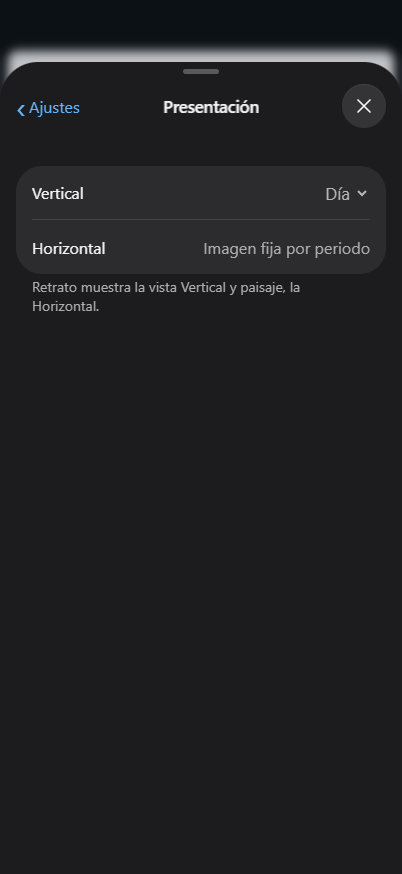
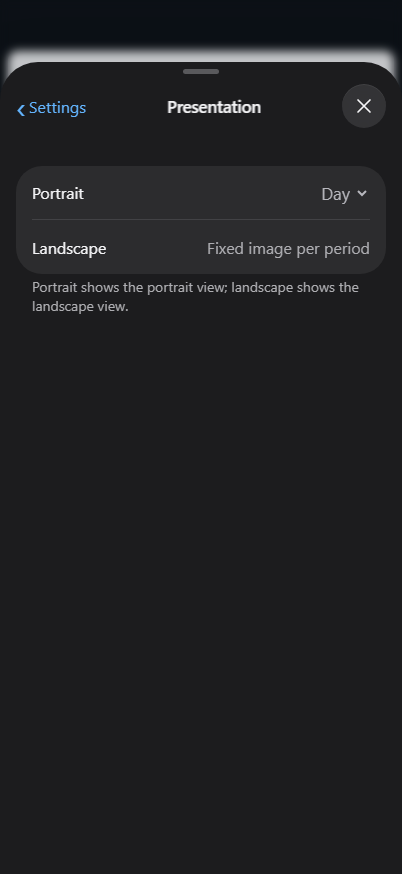
docs: refresh English interface screenshots

diff --git a/README.md b/README.md
@@ -20,7 +20,7 @@ Schedule Viewer turns your own images into a date-aware display. Define named pe
 - **Predictable presentation.** Portrait can vary by weekday, real week or calendar month. Landscape uses one stable image for each period.
 - **Useful exceptions.** A weekly active pattern combines with exact active/inactive dates and named inactive intervals such as holidays, closures or breaks.
 - **Private by design.** Configuration and original image bytes stay in IndexedDB on the device. There is no account, backend, telemetry or analytics.
-- **Offline and installable.** The app shell and saved content work offline and can be added to an iPhone or iPad Home Screen.
+- **Offline and installable.** The app shell and saved content work offline and can be installed on iOS, iPadOS and Android.
 - **Portable.** A `.schedule` backup moves the configuration and its images together; YAML import/export handles the configuration alone.
 - **Lossless image storage.** PNG, JPEG, WebP, AVIF and animated GIF retain their original bytes. User-provided SVG is deliberately rejected.
 - **Accessible controls.** Keyboard navigation, visible focus, safe touch gestures, high-contrast YAML editing and interruptible motion support Reduce Motion.
@@ -57,11 +57,20 @@ Every screenshot uses deterministic artwork generated inside this repository. It
 
 1. Open the [live app](https://r3neer.github.io/schedule-viewer/).
 2. Open the floating settings control.
-3. Add or edit **Periodos** and define the active pattern and exceptions under **Calendario**.
-4. Choose the portrait unit under **Presentación**, then assign images under **Imágenes**.
-5. Select **Guardar cambios** and export a `.schedule` backup before clearing browser data or moving devices.
+3. Add or edit **Periods** and define the active pattern and exceptions under **Calendar**.
+4. Choose the portrait unit under **Presentation**, then assign images under **Images**.
+5. Select **Save changes** and export a `.schedule` backup before clearing browser data or moving devices.
 
-The interface is currently in Spanish. On touch devices, portrait selects the Vertical presentation and landscape selects Horizontal automatically. On desktop, Horizontal is the default and Space can alternate presentations when enabled.
+The interface is in English. On touch devices, portrait and landscape select their matching presentations automatically. On desktop, Landscape is the default and Space can alternate presentations when enabled.
+
+Layout and materials adapt independently to the platform:
+
+| Platform | Layout | Materials |
+| --- | --- | --- |
+| iOS and iPadOS | Touch-first iOS layout | Apple |
+| Android | Touch-first iOS layout | Generic desktop |
+| macOS | Desktop layout | Apple |
+| Windows and Linux | Desktop layout | Generic desktop |
 
 ## How selection works
 
@@ -91,7 +100,7 @@ Read the complete [configuration v4 contract](docs/config-v4.md) and [local stor
 
 ## Browser support
 
-The release barrier exercises current Chromium and WebKit. The PWA is designed for modern Safari/iOS and Chromium-based desktop browsers. WebKit automation is a technical approximation; behavior on a physical iPhone is validated separately after deployment.
+The release barrier exercises current Chromium and WebKit. The PWA targets modern Safari on iOS/macOS and Chromium on Android, Windows and Linux. WebKit automation is a technical approximation; behavior on physical mobile devices is validated separately after deployment.
 
 ## Development
 
